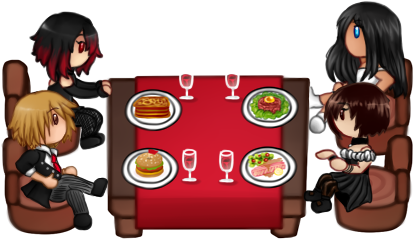
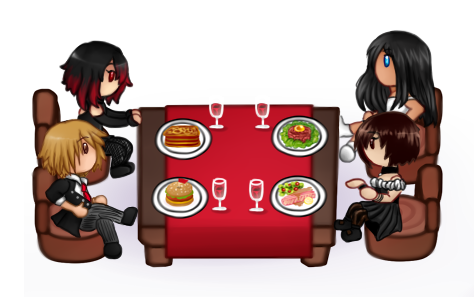
(refacto): new assets for tables + plate reset

diff --git a/src/physical/plate.ts b/src/physical/plate.ts
@@ -23,6 +23,10 @@ export class Plate implements Physical {
   showDish(): void {
     this.image.src = `/assets/plates/${this.dish}.png`;
   }
+
+  reset() {
+    this.image.src = '/assets/plates/plate.png';
+  }
 }
 
 export class PlateBuilder {
@@ -80,7 +84,7 @@ const plate0 = new PlateBuilder()
 
 const plate1 = new PlateBuilder()
   .at({ x: 1165, y: 40 })
-  .deliverTo({ x: 430, y: 800 })
+  .deliverTo({ x: 445, y: 800 })
   .sized({ width: 60, height: 54 })
   .withSrc('/assets/plates/plate.png')
   .filledWith('omelette')
@@ -88,7 +92,7 @@ const plate1 = new PlateBuilder()
 
 const plate2 = new PlateBuilder()
   .at({ x: 1165, y: 40 })
-  .deliverTo({ x: 330, y: 800 })
+  .deliverTo({ x: 325, y: 800 })
   .sized({ width: 60, height: 54 })
   .withSrc('/assets/plates/plate.png')
   .filledWith('bouchee')
@@ -96,7 +100,7 @@ const plate2 = new PlateBuilder()
 
 const plate3 = new PlateBuilder()
   .at({ x: 1165, y: 40 })
-  .deliverTo({ x: 330, y: 850 })
+  .deliverTo({ x: 325, y: 860 })
   .sized({ width: 60, height: 54 })
   .withSrc('/assets/plates/plate.png')
   .filledWith('poisson')
@@ -104,7 +108,7 @@ const plate3 = new PlateBuilder()
 
 const plate4 = new PlateBuilder()
   .at({ x: 1165, y: 40 })
-  .deliverTo({ x: 430, y: 850 })
+  .deliverTo({ x: 440, y: 860 })
   .sized({ width: 60, height: 54 })
   .withSrc('/assets/plates/plate.png')
   .filledWith('poulet')

diff --git a/src/graphics/graphics.ts b/src/graphics/graphics.ts
@@ -458,8 +458,15 @@ export class Graphics {
     this.mainMenuLayer.removeChildren();
   }
 
+  resetPlates() {
+    for (const plate of Plates) {
+      plate.reset();
+    }
+  }
+
   clear() {
     this.resetLayers();
+    this.resetPlates();
     this.stopCleaningAnimation();
     this.stage.removeChildren();
     this.plates = [];
